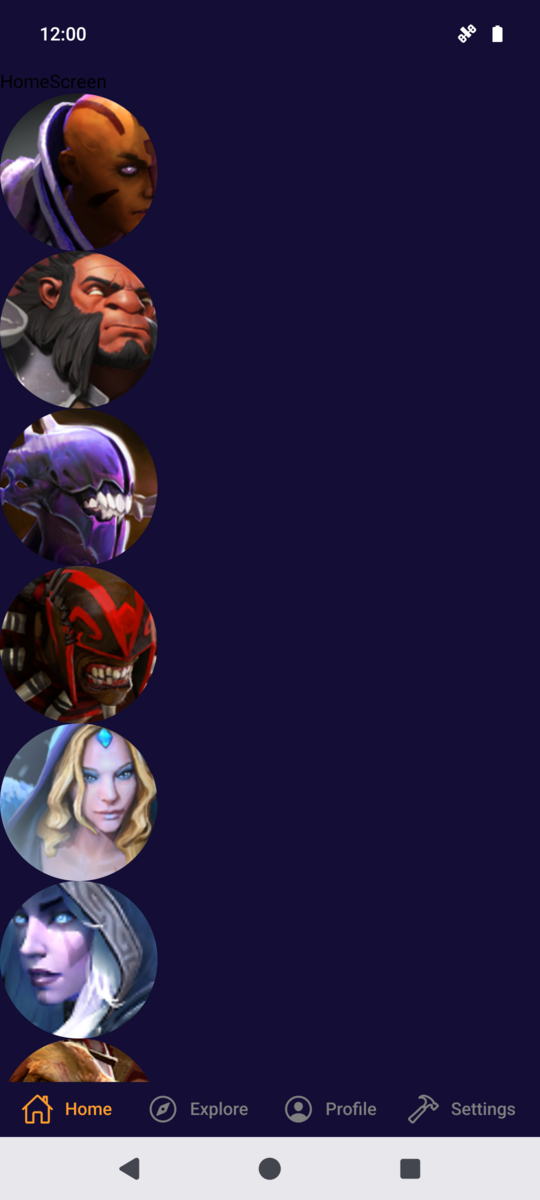
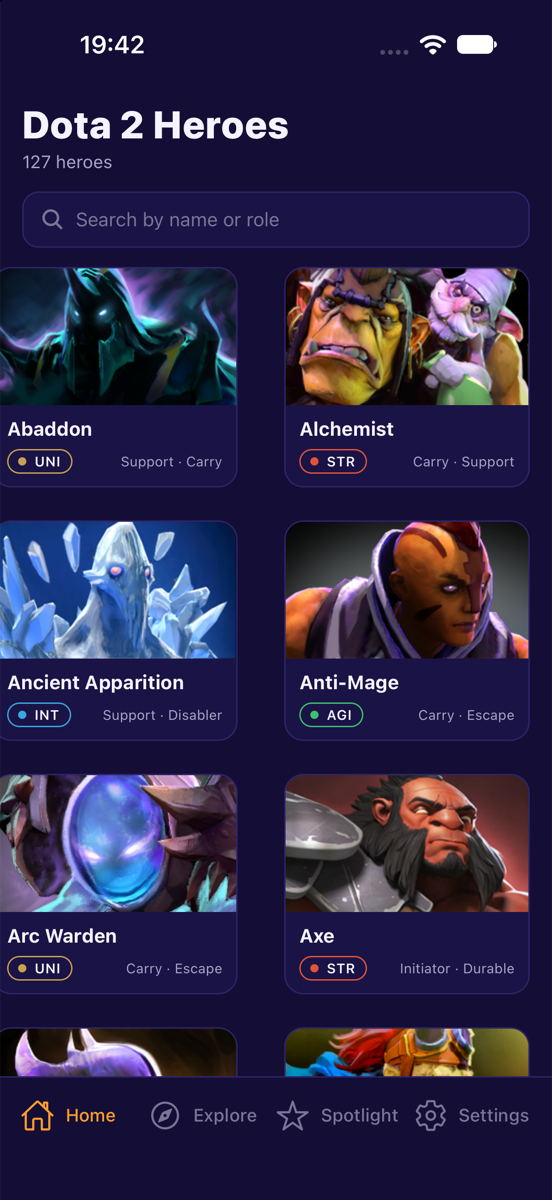
docs: regenerate screenshots from iOS simulator and update readme

diff --git a/readme.md b/readme.md
@@ -1,28 +1,37 @@
 # Dota 2 App
 
-React Native app that lists Dota 2 heroes from the [OpenDota API](https://docs.opendota.com/) and shows a hero profile.
+React Native app that lists the 127 Dota 2 heroes from the [OpenDota API](https://docs.opendota.com/) and shows a full hero profile (stats, attributes and abilities) from Valve's Dota 2 data.
+
+## Screens
+
+- **Home** — searchable roster in a two-column grid
+- **Explore** — same roster filtered by primary attribute and role
+- **Spotlight** — hero of the day with stats, hype quote and lore
+- **Hero detail** — attributes, combat stats and abilities with icons
+- **Settings** — data sources, cache controls and app info
 
 ## Screenshots
 
-Release build on an Android 15 emulator (Pixel 7).
+Captured on the iPhone 18 Pro simulator (iOS 27).
 
 <p>
-  <img src="./screenshots/home.png" width="30%" alt="Heroes list" />
-  <img src="./screenshots/profile.png" width="30%" alt="Hero profile" />
+  <img src="./screenshots/home.png" width="24%" alt="Home: searchable heroes grid" />
+  <img src="./screenshots/explore.png" width="24%" alt="Explore: attribute and role filters" />
+  <img src="./screenshots/spotlight.png" width="24%" alt="Spotlight: hero of the day" />
 </p>
-
-## Demo
-
-<img src="./screenshots/demo.gif" width="30%" alt="Scrolling the heroes list" />
+<p>
+  <img src="./screenshots/detail.png" width="24%" alt="Hero detail: attributes, stats and abilities" />
+  <img src="./screenshots/settings.png" width="24%" alt="Settings: data sources and cache" />
+</p>
 
 ## Tech stack
 
 - React Native 0.87 (New Architecture), React 19, TypeScript
-- React Navigation 7 (bottom tabs)
+- React Navigation 7 (bottom tabs + native stack)
 - [TanStack Query](https://tanstack.com/query/latest) for server state
 - [InversifyJS](https://inversify.io) + `reflect-metadata` for dependency injection
-- [LegendList](https://legendapp.com/open-source/list/) for the heroes list
-- Axios, Jest, ESLint, Prettier
+- [LegendList](https://legendapp.com/open-source/list/) for the heroes lists
+- Ionicons (`@react-native-vector-icons/ionicons`), Axios, Jest, ESLint, Prettier
 
 Hero and ability images are loaded from Valve's Steam CDN (`cdn.cloudflare.steamstatic.com`).
 
@@ -64,13 +73,14 @@ src/
   infrastructure/  HttpClient (axios)
   core/di/         TYPES tokens, ContainerModules, container, DIProvider/useInjection
   core/query/      TanStack Query client (refetch when the app returns to foreground)
-  presentation/    screens, navigation, hooks, theme
+  presentation/    screens (Home, Explore, Spotlight, Settings, HeroDetail), navigation, components, hooks, theme
 ```
 
 Dependencies point inwards: `presentation -> domain <- data -> infrastructure`.
 
 ```
 HomeScreen -> useHeroes -> useQuery -> GetHeroesUseCase -> HeroRepository -> HeroRemoteDataSource -> HttpClient
+HeroDetailScreen -> useHeroDetails -> GetHeroDetailsUseCase -> ...
 ```
 
 Bindings live in `src/core/di/modules.ts`. Components resolve use cases with `useInjection(TYPES.X)` and call them from TanStack Query hooks; tests can `container.rebind(...)` any dependency with a fake.
